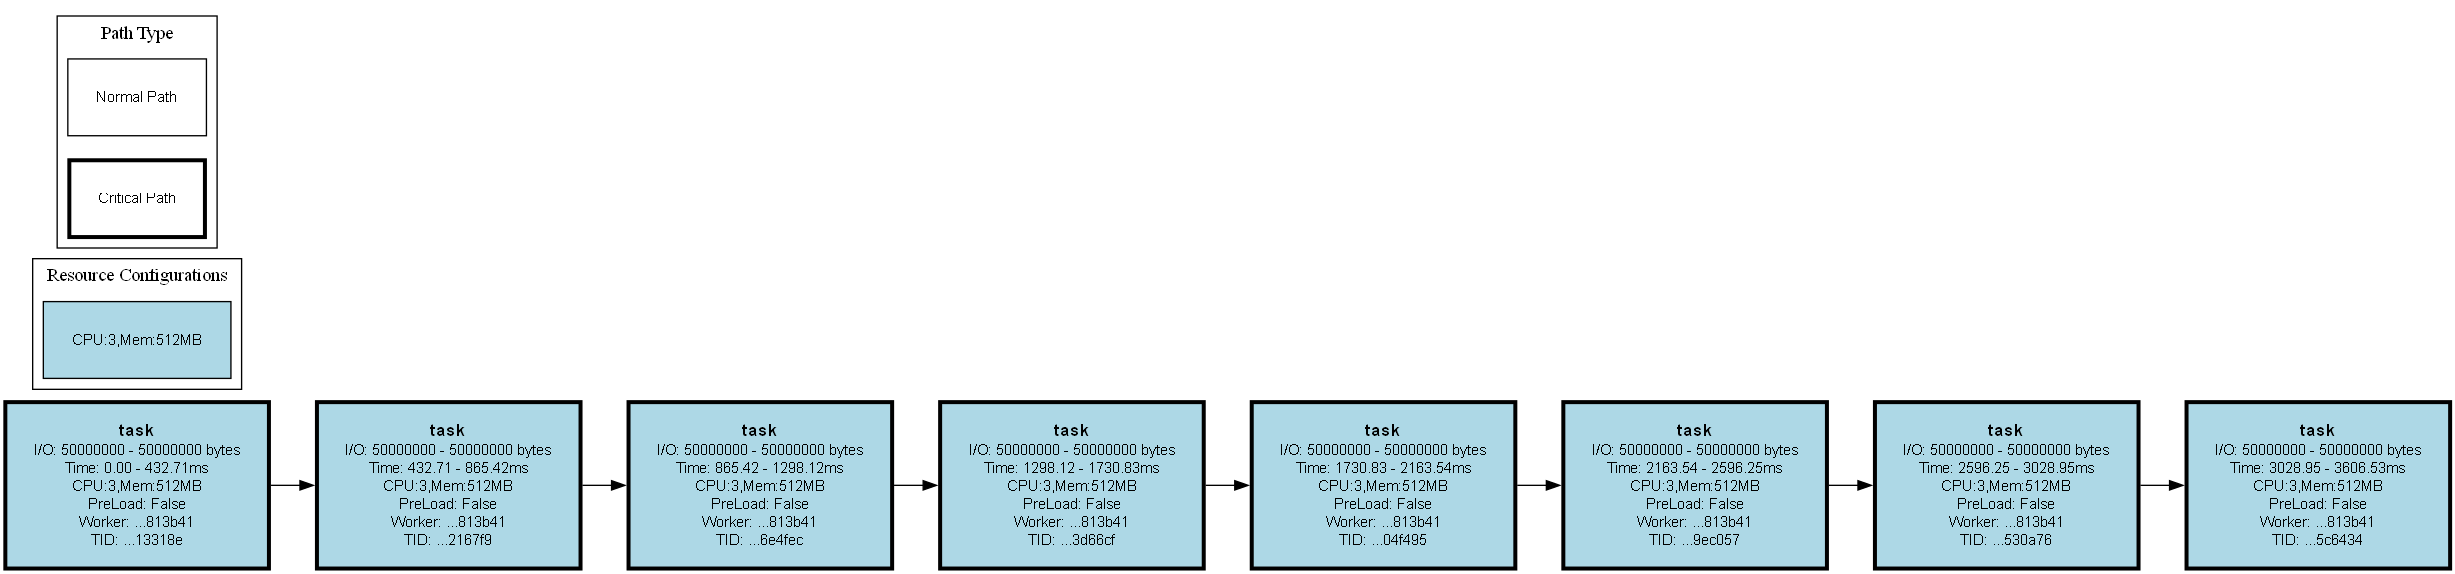
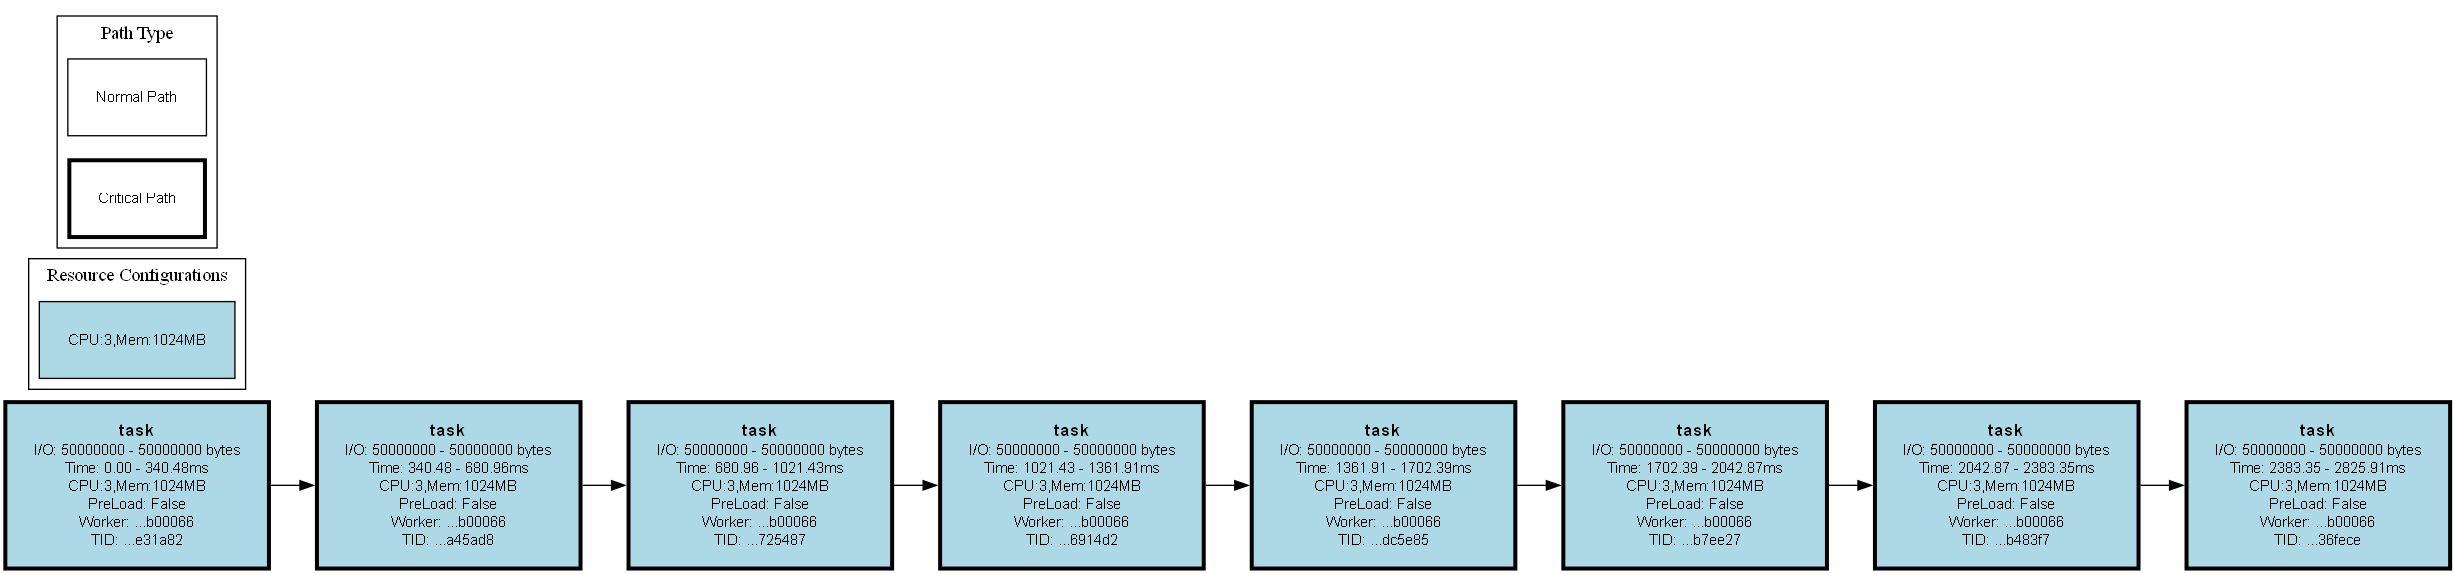
now showing resources used if they are uniform

diff --git a/_metadata_analysis/global_planning_analysis_dashboard.py b/_metadata_analysis/global_planning_analysis_dashboard.py
@@ -195,7 +195,12 @@ def main():
                 
                 # Calculate actual makespan
                 task_timings = []
+                from src.planning.annotations.task_worker_resource_configuration import TaskWorkerResourceConfiguration
+                common_resources: TaskWorkerResourceConfiguration | None = None
                 for task in instance.tasks:
+                    if common_resources is None: common_resources = task.metrics.worker_resource_configuration
+                    elif common_resources != task.metrics.worker_resource_configuration: common_resources = None
+                    
                     task_start = task.metrics.started_at_timestamp_s * 1000  # Convert to ms
                     task_end = task_start
                     task_end += task.metrics.input_metrics.tp_total_time_waiting_for_inputs_ms if task.metrics.input_metrics.tp_total_time_waiting_for_inputs_ms is not None else 0
@@ -277,6 +282,7 @@ def main():
                 instance_data.append({
                     'Workflow Type': selected_workflow,
                     'Planner': instance.plan.planner_name if instance.plan else 'N/A',
+                    'Resources': f"{common_resources.cpus} CPUs {common_resources.memory_mb} MB" if common_resources else 'Non-Uniform',
                     'SLA': sla_value,
                     'Master DAG ID': instance.master_dag_id,
                     'Makespan': format_metric(actual_makespan, predicted_makespan, 
@@ -321,6 +327,7 @@ def main():
                     df_instances,
                     column_config={
                         'Workflow Type': "Workflow Type",
+                        'Resources': "Resources",
                         'SLA': "SLA",
                         'Makespan': "Makespan (Predicted → Actual)",
                         'Total Execution Time': "Total Execution Time (Predicted → Actual)",
@@ -338,6 +345,7 @@ def main():
                     column_order=[
                         'Workflow Type', 
                         'Planner',
+                        'Resources',
                         'SLA',
                         'Master DAG ID',
                         'Makespan', 

diff --git a/_examples/original/simpledag.py b/_examples/original/simpledag.py
@@ -42,7 +42,7 @@ dockerWorkerConfig = DockerWorker.Config(
     metrics_storage_config=MetricsStorage.Config(storage_config=redis_metrics_storage_config),
     planner_config=FirstPlannerAlgorithm.Config(
         sla="avg",
-        worker_resource_configuration=TaskWorkerResourceConfiguration(cpus=3, memory_mb=512),
+        worker_resource_configuration=TaskWorkerResourceConfiguration(cpus=3, memory_mb=1024),
     )
 )
 

diff --git a/TODO.md b/TODO.md
@@ -1,5 +1,6 @@
 - Experiment simpledag.py on 1st algorithm but with diff. resource configs from the BASELINE
     - run 3 times and check "global planning analysis dashboard"
+- On "workflow_instance_analysis", show the planned vs observed time downloading data and time uploading data
 - Change structure of simpledag to have a fanout and a fanin
     - run 3 times and check "global planning analysis dashboard"
     - preload will happen, check if there is any anomaly there
